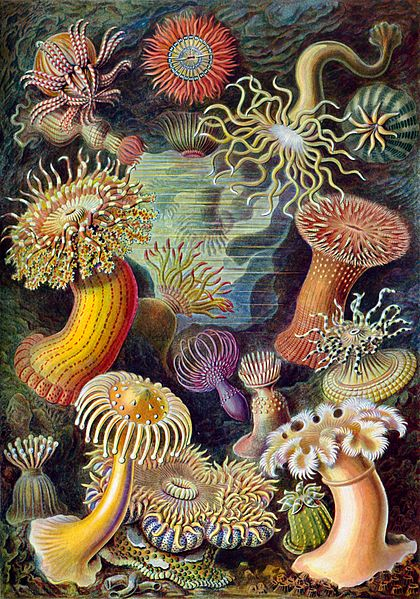
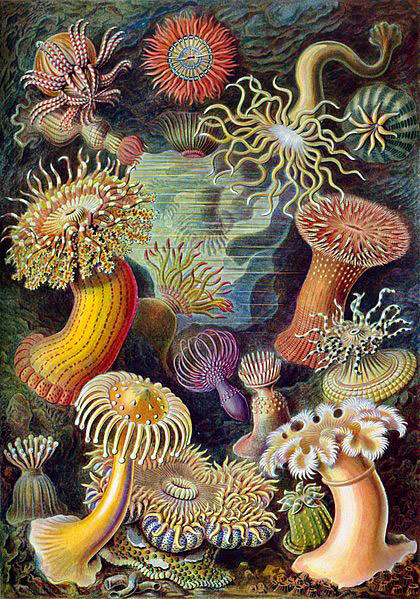
optimized img for web

diff --git a/types.html b/types.html
@@ -18,7 +18,7 @@ layout: default
        </div>
         <div class="col-md-6">
           <h2>Box Jellyfish</h2>
-          <p><img src="{{site.baseurl}}/img/box-jelly.png" class="flex-img" alt="box jellyfish"><strong>Box Jellyfish</strong> have a box type bell instead of a round one like most other jellyfish. They are also known as <em>Sea Wasps</em> because they produce a very painful, and sometimes fatal, sting when they come in contact with humans. </p>
+          <p><img src="{{site.baseurl}}/img/box-jelly.jpg" class="flex-img" alt="box jellyfish"><strong>Box Jellyfish</strong> have a box type bell instead of a round one like most other jellyfish. They are also known as <em>Sea Wasps</em> because they produce a very painful, and sometimes fatal, sting when they come in contact with humans. </p>
         </div>
       </div>
       </div>
